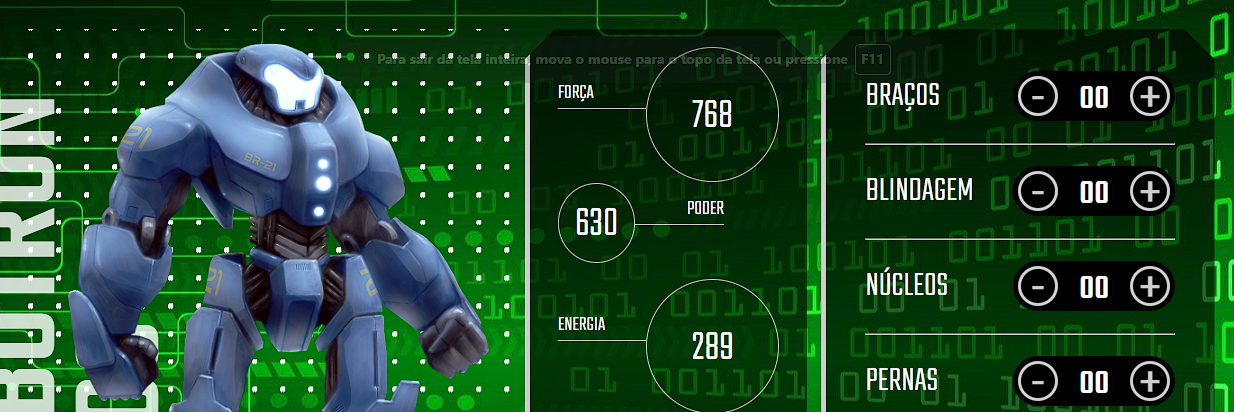
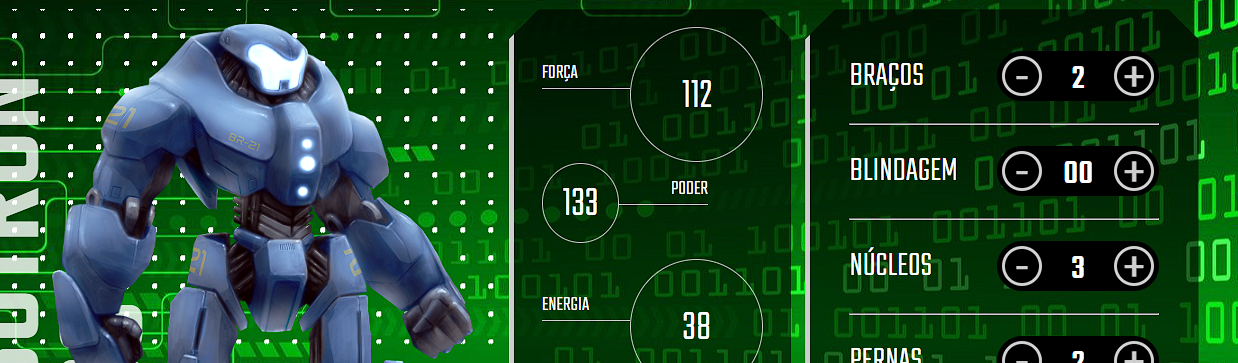
modificando números estáticos do html

diff --git a/index.html b/index.html
@@ -33,25 +33,25 @@
             <div class="estatistica">
                 <p class="estatistica-titulo">Força</p>
                 <div class="estatistica-valor">
-                    <p class="estatistica-numero" data-estatistica="forca">768</p>
+                    <p class="estatistica-numero" data-estatistica="forca"></p>
                 </div>
             </div>
             <div class="estatistica">
                 <p class="estatistica-titulo">Poder</p>
                 <div class="estatistica-valor">
-                    <p class="estatistica-numero" data-estatistica="poder">630</p>
+                    <p class="estatistica-numero" data-estatistica="poder">0</p>
                 </div>
             </div>
             <div class="estatistica">
                 <p class="estatistica-titulo">Energia</p>
                 <div class="estatistica-valor">
-                    <p class="estatistica-numero" data-estatistica="energia">289</p>
+                    <p class="estatistica-numero" data-estatistica="energia">0</p>
                 </div>
             </div>
             <div class="estatistica">
                 <p class="estatistica-titulo">Velocidade</p>
                 <div class="estatistica-valor">
-                    <p class="estatistica-numero" data-estatistica="velocidade">597</p>
+                    <p class="estatistica-numero" data-estatistica="velocidade">0</p>
                 </div>
             </div>
         </section>
